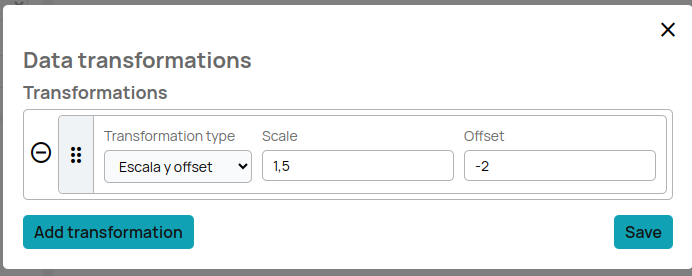
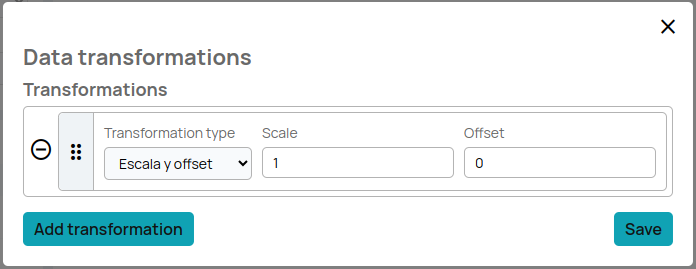
Modify some text and add some screenshots to make the "How to create the schema more clear"

diff --git a/docs/How-to guides/How to create a schema.md b/docs/How-to guides/How to create a schema.md
@@ -77,7 +77,7 @@ Once the schema is totally represented the ‘save’ button will register the s
 
 
 The data transformation functionality allows users to apply scaling and offsetting during data ingestion.
-Data tranfromation includes advanced options such as the application of scaling and offsetting. This feature allows users to adjust their data more precisely during the ingestion process, this will be applicable to the following item types.
+Data transformation includes advanced options such as the application of scaling and offsetting. This feature allows users to adjust their data more precisely during the ingestion process, this will be applicable to the following item types.
 
 - Integer
 - Integer, as text
@@ -92,7 +92,7 @@ Data tranfromation includes advanced options such as the application of scaling 
 To access the data ingestion flows on the Biotz platform and select the "Data Transformation" option, first, navigate to the left-hand side of the main menu on the Biotz platform and select "Setup". From there, choose "Data Ingestion Flows", then, select the appropriate device type, followed by the corresponding message type, and then click on "New Schema" to start defining a new data schema.
 
 
-Once on the schema definition screen, select the item type you want to transform, ensuring it is one of the following: integer, integer as text, integer as hexadecimal text, decimal, or decimal as text. After selecting the item type, the "fx" icon will appear next to the item name data type. Click on this icon to access the data transformation options.
+Once on the schema definition screen, select the item type you want to transform, ensuring it is one of the following: integer, integer as text, integer as hexadecimal text, decimal, or decimal as text. After selecting the item type, the "fx" icon will appear next to the item name. Click on this icon to access the data transformation options.
 
 
 <div class="tutorial-image-container">
@@ -118,11 +118,15 @@ Configure the specific parameters of the transformation.
 
 For example:
 
+<div class="tutorial-image-container">
+    ![Creating panels](img/scale-offset.png)
+</div>
+
 Scale: 1.5
 Offset: -2
 This means that each data value will be multiplied by 1.5 and then 2 will be subtracted.
 
-To add more transformations click on the "add tranformation" button, once the transformations are done, click on "save". Once the transformations are saved the "fx" button will show a yellow circle to show that the transformations have been applied.
+To add more transformations click on the "add tranformation" button, once the setup is done, click on "save". Once the configuration is saved the "fx" button will show a yellow circle to show that the data transformation formulas are stored.
 
 <div class="tutorial-image-container">
     ![Creating panels](img/click-to-tranform.png)
@@ -132,7 +136,6 @@ To add more transformations click on the "add tranformation" button, once the tr
 
 Associate the defined transformation rules with the data ingestion flow.
 
-With this process you will be able to add data transformations for your new schema, remember that it can only be applied to the previously mentioned item types,
 
 ## Create a schema using the text editor
 
